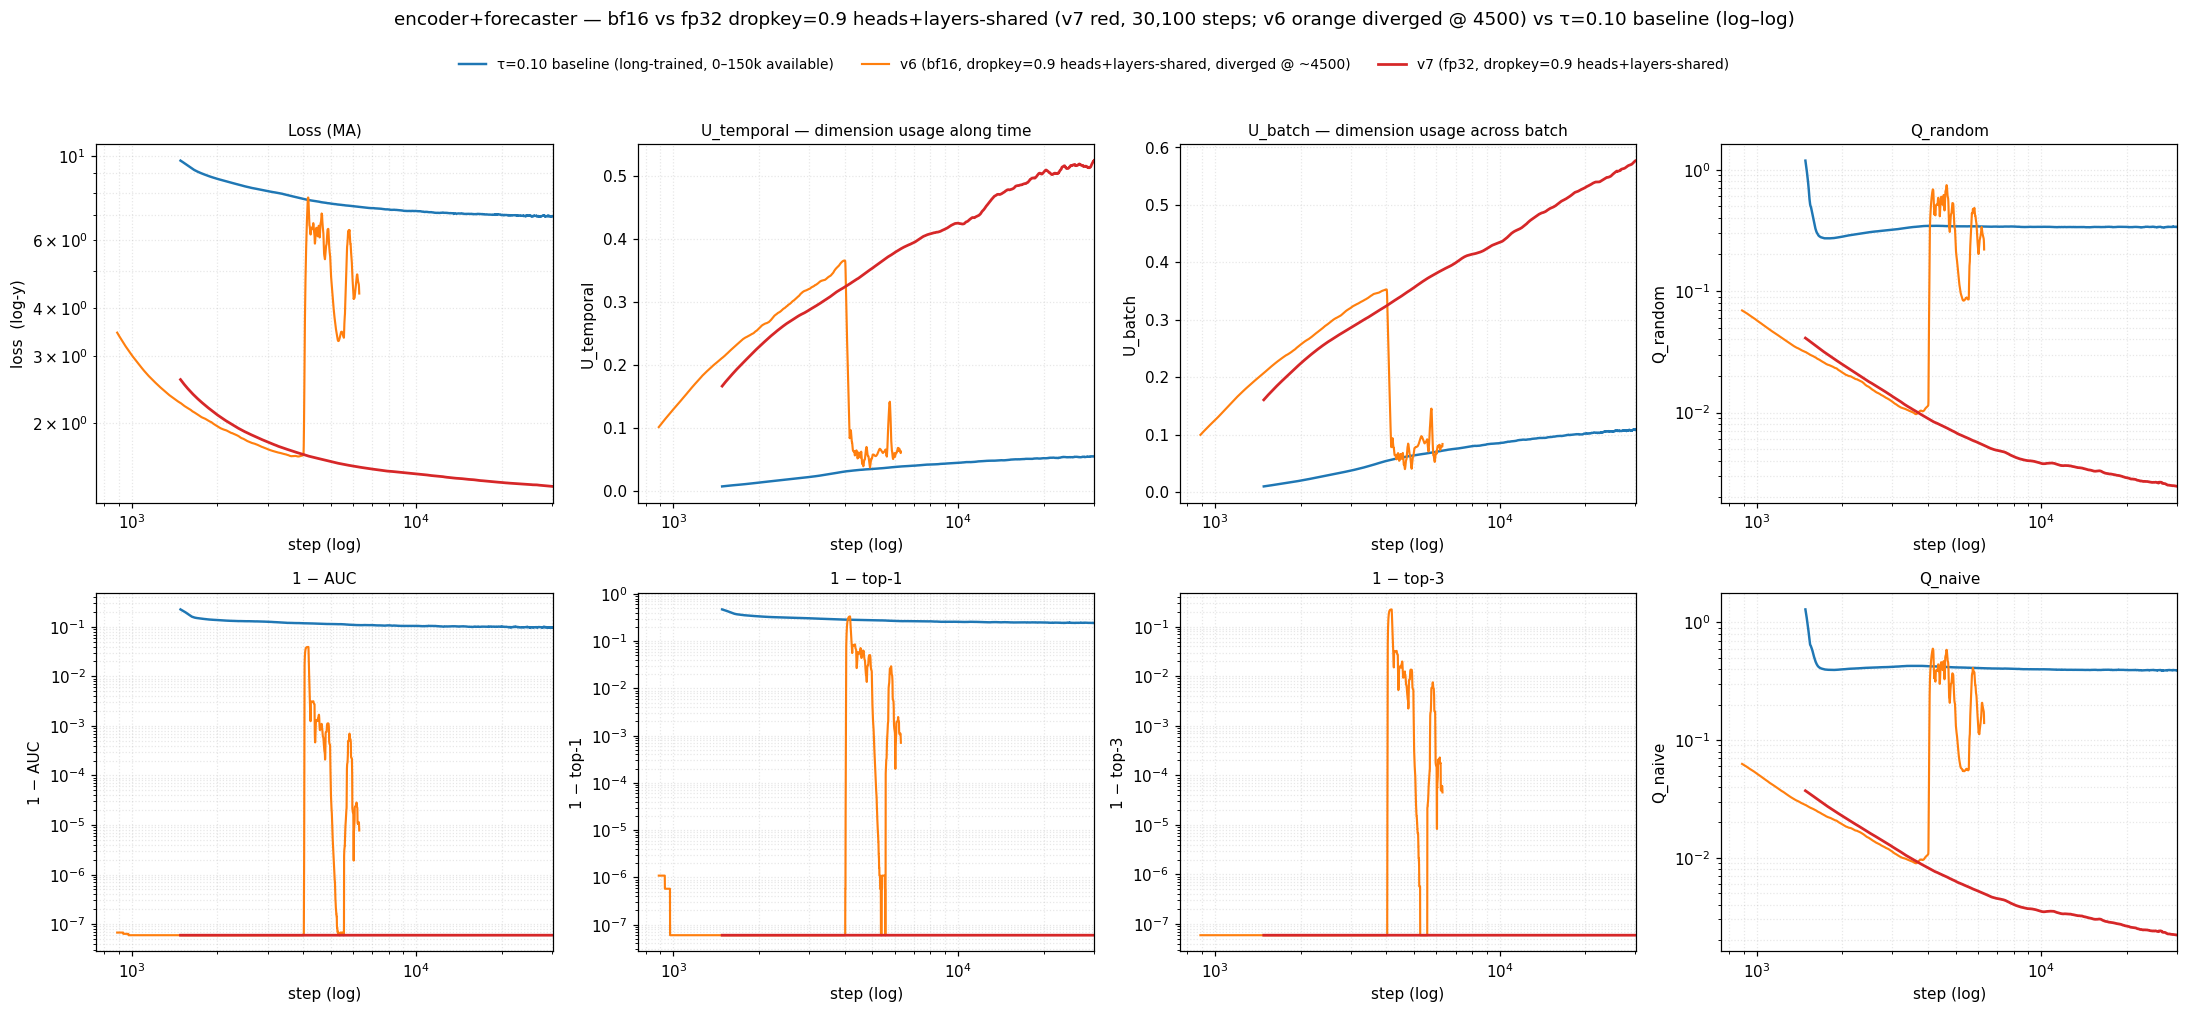
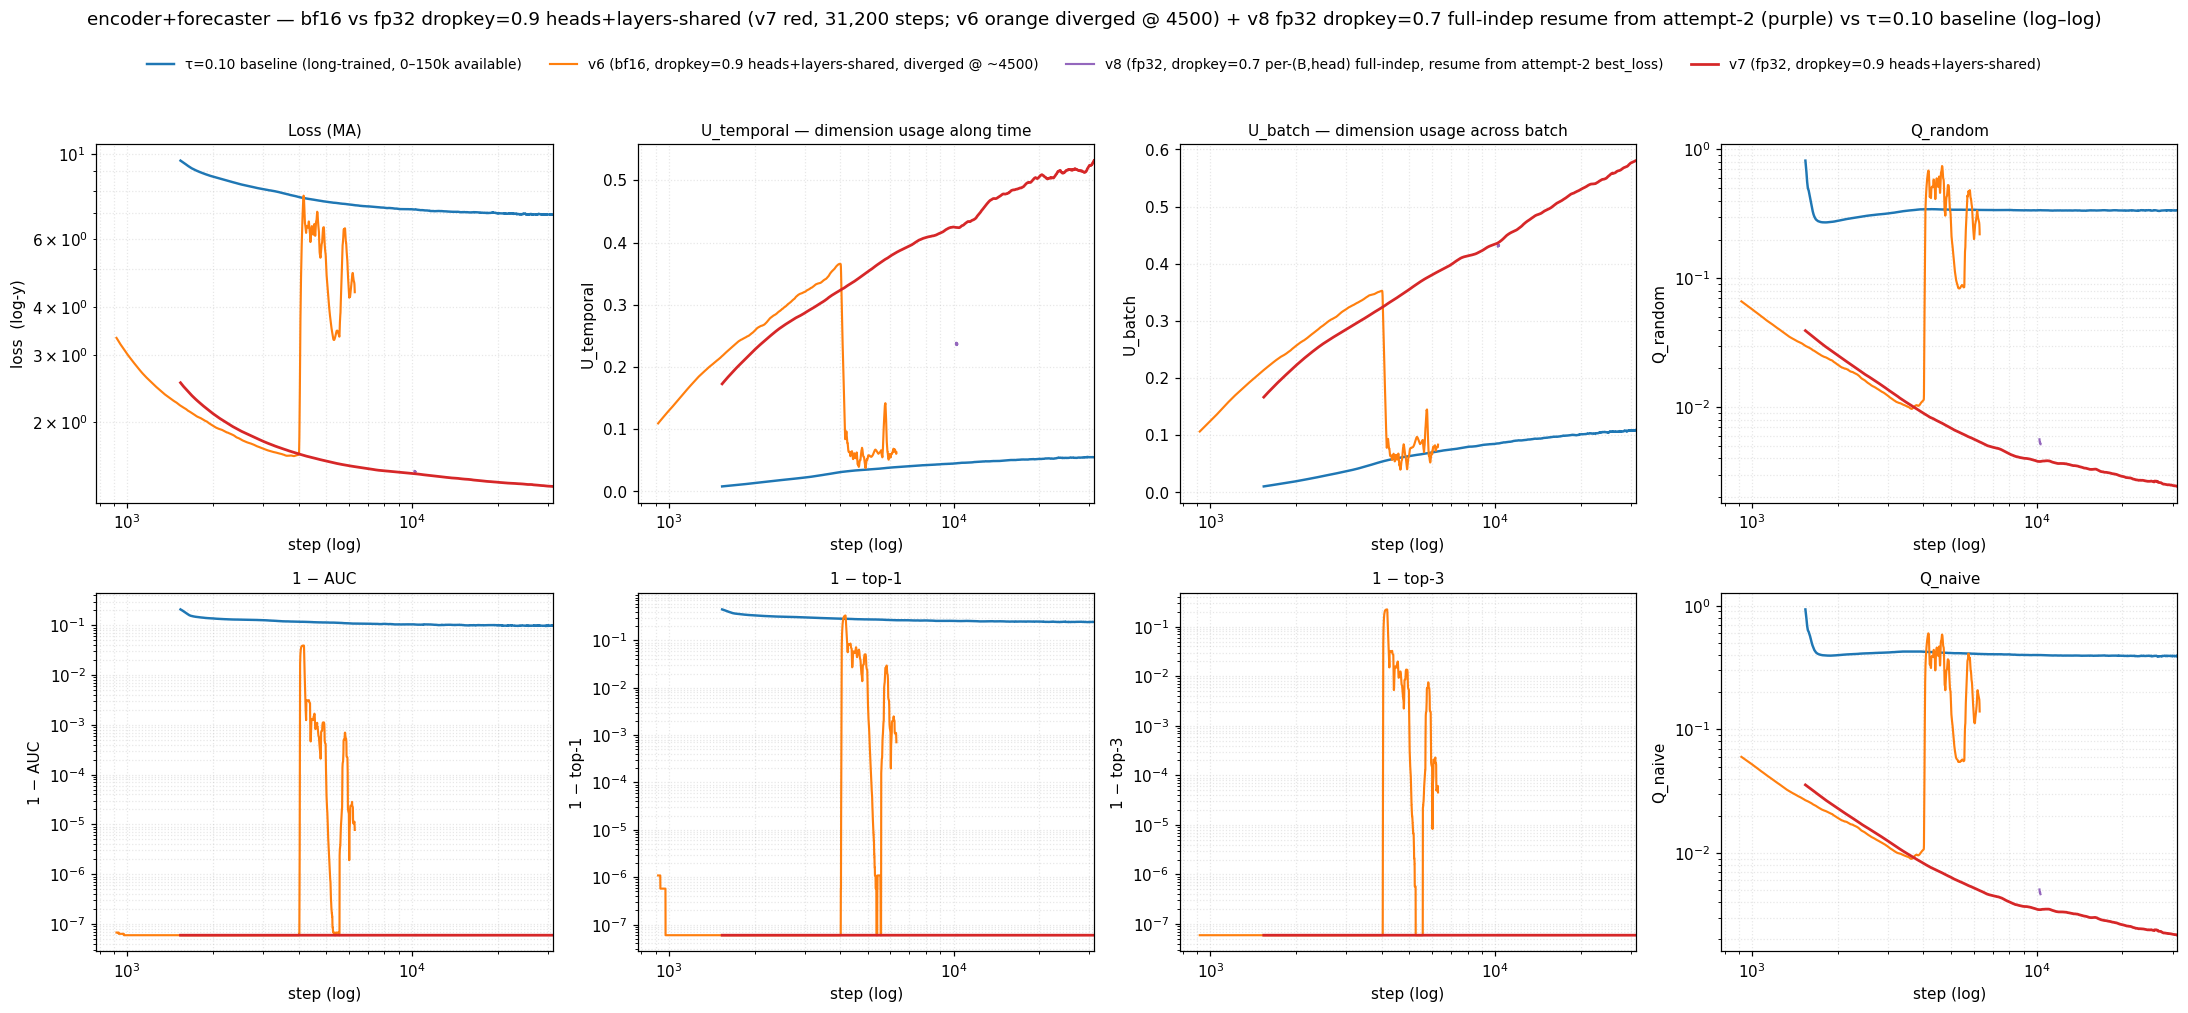
v8: resume attempt-2 (first diverging config) in fp32 on GPU 0
If v7's fp32 stability on the v6 config generalizes, then the FIRST
diverging config in this series (attempt-2: dropkey=0.7 per-(B,head)
full-indep, B=256, lr=1e-3, bf16, diverged at step ~14900) should
also be stable in fp32. v8 tests that directly: resume attempt-2's
best_loss checkpoint and continue with --amp-dtype none, every other
HP unchanged. If v8 clears step ~14900 cleanly, bf16 is implicated
in EVERY divergence in this series.

Runs on GPU 0 in parallel with v7 on GPU 1.

scripts/run_v8_attempt2_fp32_resume.sh: new launcher.
scripts/plot_progress.py: added v8 (purple) as 4th arm — baseline /
v6 bf16 / v8 fp32 dropkey=0.7 resume / v7 fp32 dropkey=0.9 (headline).

diff --git a/experiments/2026-05-11_exp_encoder_forecaster/scripts/plot_progress.py b/experiments/2026-05-11_exp_encoder_forecaster/scripts/plot_progress.py
@@ -69,6 +69,7 @@ MAIN = Path("/home/jupyter/contrastive-forecasting")
 C_BASELINE = "#1f77b4"  # tab:blue
 C_V6 = "#ff7f0e"  # tab:orange
 C_V7 = "#d62728"  # tab:red
+C_V8 = "#9467bd"  # purple
 
 # τ=0.10 baseline is split across resume chunks. Concatenate in step
 # order; on overlap, the earliest chunk's row wins.
@@ -81,6 +82,7 @@ BASELINE_CHUNKS = [
 
 V6_CSV = MAIN / "checkpoints/enc_fcst_dk09_hsl_b256_50k_bf16_attempt1_losses.csv"
 V7_CSV = MAIN / "checkpoints/enc_fcst_dk09_hsl_b256_fp32_50k_losses.csv"
+V8_CSV = MAIN / "checkpoints/enc_fcst_dk07_pb_fp32_resume_50k_losses.csv"
 NEW_ARM_CSV = V7_CSV
 
 # (display_label, color, linestyle, lw, csv_path_or_chunks, is_concat)
@@ -92,6 +94,10 @@ ARMS = [
     ("v6 (bf16, dropkey=0.9 heads+layers-shared, diverged @ ~4500)",
      C_V6, "-", 1.4,
      V6_CSV,
+     False),
+    ("v8 (fp32, dropkey=0.7 per-(B,head) full-indep, resume from attempt-2 best_loss)",
+     C_V8, "-", 1.4,
+     V8_CSV,
      False),
     ("v7 (fp32, dropkey=0.9 heads+layers-shared)",
      C_V7, "-", 1.8,
@@ -286,7 +292,8 @@ def render_figure(traj, *, logx, logy_metrics, out_path, scale_tag, xmax,
 
     fig.suptitle(
         f"encoder+forecaster — bf16 vs fp32 dropkey=0.9 heads+layers-shared "
-        f"(v7 red, {xmax:,} steps; v6 orange diverged @ 4500) "
+        f"(v7 red, {xmax:,} steps; v6 orange diverged @ 4500) + "
+        f"v8 fp32 dropkey=0.7 full-indep resume from attempt-2 (purple) "
         f"vs τ=0.10 baseline ({scale_tag})",
         fontsize=12, y=1.02)
     fig.tight_layout(rect=(0, 0, 1, 0.96))
@@ -304,13 +311,15 @@ def main() -> None:
         raise SystemExit("baseline chunks all missing or empty")
     new_arm_max = int(new_arm["step"].max())
     baseline_max = int(baseline["step"].max())
-    # Right edge = the most recent step among the non-baseline arms (v6 + v7).
-    # All three arms get clipped to the same window before smoothing so the
+    # Right edge = the most recent step among the non-baseline arms (v6 + v7 + v8).
+    # All four arms get clipped to the same window before smoothing so the
     # curves end at the same x. Capped at baseline_max in case anything
     # overshoots.
     v6 = load_traj(V6_CSV)
     v6_max = int(v6["step"].max()) if v6 is not None else 0
-    xmax = min(max(new_arm_max, v6_max), baseline_max)
+    v8 = load_traj(V8_CSV)
+    v8_max = int(v8["step"].max()) if v8 is not None else 0
+    xmax = min(max(new_arm_max, v6_max, v8_max), baseline_max)
 
     # Log-x lower bound: snap to the smaller of the two arms' first
     # smoothed point inside the visible window, so the [1..first_step]
